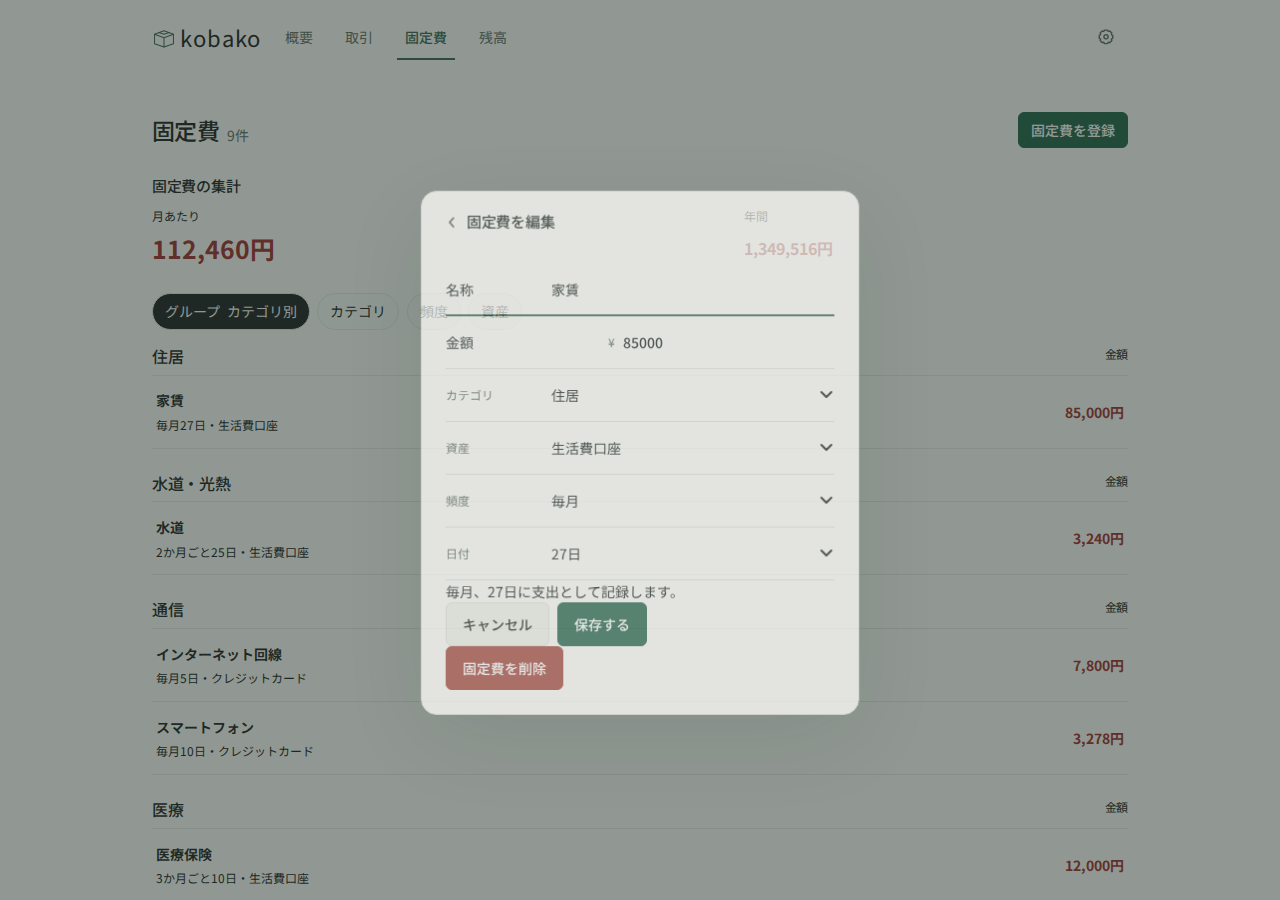
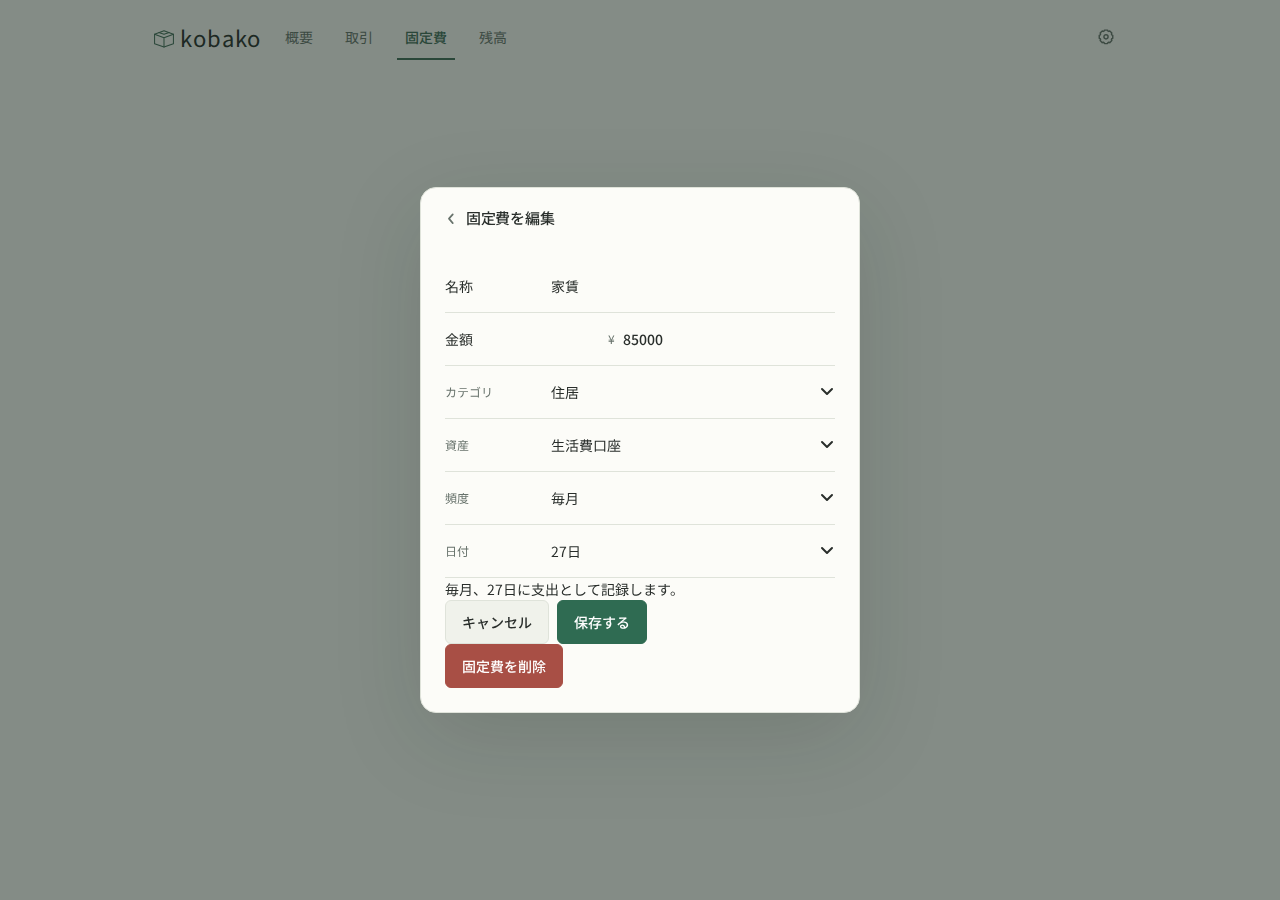
fix: preserve fixed cost modal presentation

diff --git a/apps/web/app/fixed-costs/[id]/edit/page.tsx b/apps/web/app/fixed-costs/[id]/edit/page.tsx
@@ -1,4 +1,5 @@
 import { notFound } from 'next/navigation';
+import { OverlayCard } from '../../../_components/overlay-card';
 import { listCategories, listActiveManagedAccounts } from '@kobako/db';
 import { getCurrentHouseholdId, getLedgerDatabase } from '../../../../src/lib/ledger-data';
 import { PageHeader } from '../../../_components/page-header';
@@ -55,11 +56,27 @@ export async function EditFixedCostContent({
   );
 }
 
-export default function EditFixedCostPage({ params }: { params: Params }) {
+export default async function EditFixedCostPage({
+  params,
+  searchParams,
+}: {
+  params: Params;
+  searchParams?: Promise<Record<string, string | string[] | undefined>>;
+}) {
+  const query = (await searchParams) ?? {};
+  const modal = query.modal === '1';
+  const content = <EditFixedCostContent params={params} showCancel={modal} />;
+  if (modal) {
+    return (
+      <OverlayCard title="固定費を編集" kind="transaction" autoFocusSelector="#fixed-cost-name">
+        {content}
+      </OverlayCard>
+    );
+  }
   return (
     <PageShell width="narrow">
       <PageHeader title="固定費を編集" />
-      <EditFixedCostContent params={params} />
+      {content}
     </PageShell>
   );
 }

diff --git a/apps/web/app/fixed-costs/new/page.tsx b/apps/web/app/fixed-costs/new/page.tsx
@@ -1,4 +1,5 @@
 import { listCategories, listActiveManagedAccounts } from '@kobako/db';
+import { OverlayCard } from '../../_components/overlay-card';
 import { getCurrentHouseholdId, getLedgerDatabase } from '../../../src/lib/ledger-data';
 import { PageHeader } from '../../_components/page-header';
 import { PageShell } from '../../_components/ui';
@@ -36,11 +37,25 @@ export async function NewFixedCostContent({ showCancel = false }: { showCancel?:
   );
 }
 
-export default function NewFixedCostPage() {
+export default async function NewFixedCostPage({
+  searchParams,
+}: {
+  searchParams?: Promise<Record<string, string | string[] | undefined>>;
+}) {
+  const query = (await searchParams) ?? {};
+  const modal = query.modal === '1';
+  const content = <NewFixedCostContent showCancel={modal} />;
+  if (modal) {
+    return (
+      <OverlayCard title="固定費を登録" kind="transaction" autoFocusSelector="#fixed-cost-name">
+        {content}
+      </OverlayCard>
+    );
+  }
   return (
     <PageShell width="narrow">
       <PageHeader title="固定費を登録" />
-      <NewFixedCostContent />
+      {content}
     </PageShell>
   );
 }

diff --git a/apps/web/app/fixed-costs/fixed-cost-list.tsx b/apps/web/app/fixed-costs/fixed-cost-list.tsx
@@ -148,7 +148,7 @@ export function FixedCostList({ rows }: { rows: readonly ListedFixedCost[] }) {
             <ul>
               {items.map((row) => (
                 <li key={row.id} className={styles.row}>
-                  <Link href={`/fixed-costs/${row.id}/edit`}>
+                  <Link href={`/fixed-costs/${row.id}/edit?modal=1`}>
                     <span className={styles.name}>{row.name}</span>
                     <span className={styles.meta}>
                       {frequencyLabel(row)}・{row.accountName}

diff --git a/apps/web/app/fixed-costs/page.tsx b/apps/web/app/fixed-costs/page.tsx
@@ -22,7 +22,7 @@ export default async function FixedCostsPage() {
         title="固定費"
         count={`${rows.length}件`}
         actions={
-          <ActionLink href="/fixed-costs/new" variant="primary">
+          <ActionLink href="/fixed-costs/new?modal=1" variant="primary">
             固定費を登録
           </ActionLink>
         }
